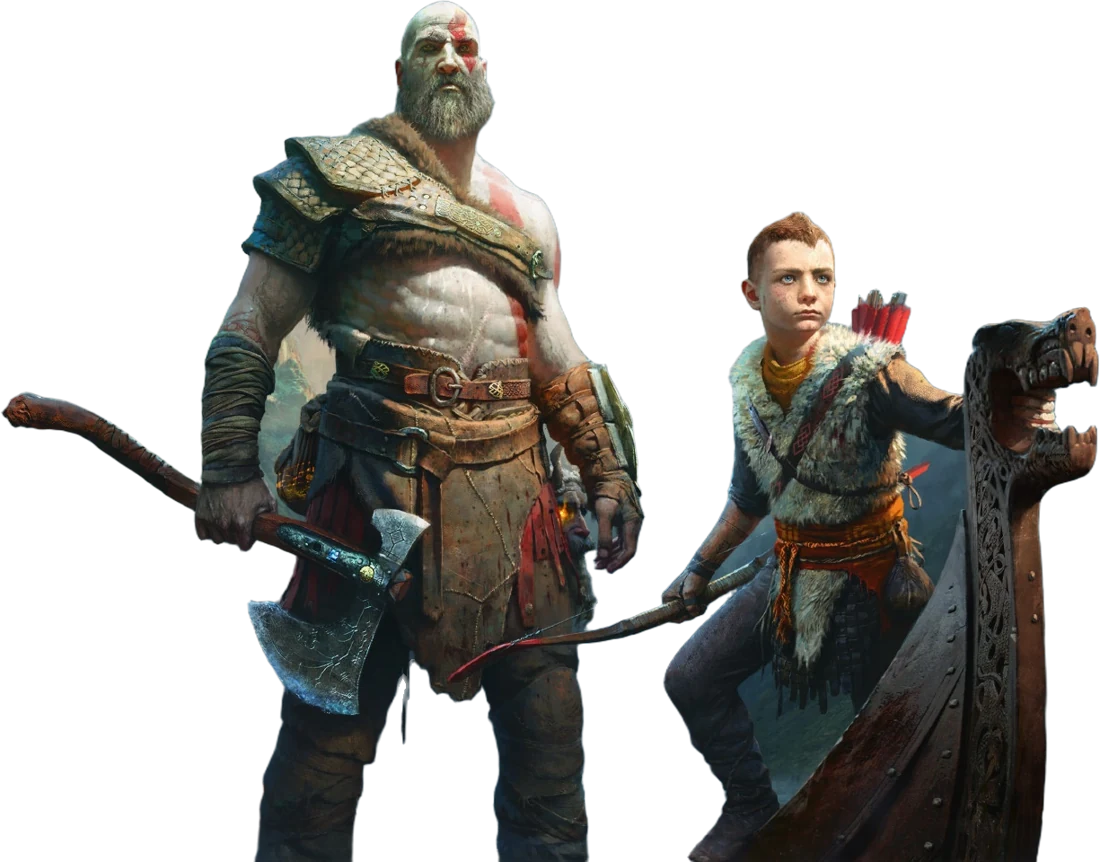
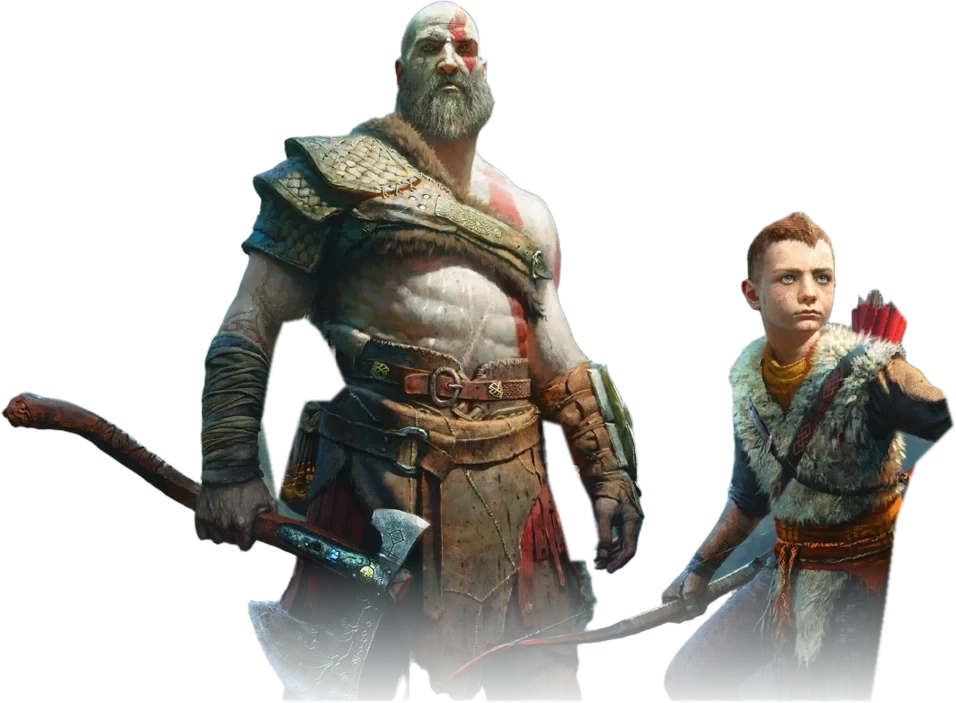
Round 11: clean Wolverine hero bg (ring behind character only), Kratos cutout without boat prow, footer email wrap fix, ?v=13

diff --git a/index.html b/index.html
@@ -458,7 +458,7 @@ legend{width:100%;padding:0;margin-bottom:14px;display:flex;align-items:baseline
   *:not(.hgl-col):not(.hg-lt-st em):not(.hg-stn .pulse),*::before,*::after{animation:none!important;transition:none!important}
 }
 </style>
-<link rel="stylesheet" href="/hg.css?v=12">
+<link rel="stylesheet" href="/hg.css?v=13">
 </head>
 <body>
 
@@ -839,7 +839,7 @@ legend{width:100%;padding:0;margin-bottom:14px;display:flex;align-items:baseline
       <a class="hgf-t wa" href="https://wa.me/917038896627?text=Hi%20Hunter%20Gamers%2C%20I%20want%20to%20book%20a%20slot." target="_blank" rel="noopener"><span class="hgf-ic"><svg viewBox="0 0 24 24" aria-hidden="true"><path fill="#25D366" d="M17.472 14.382c-.297-.149-1.758-.867-2.03-.967-.273-.099-.471-.148-.67.15-.197.297-.767.966-.94 1.164-.173.199-.347.223-.644.075-.297-.15-1.255-.463-2.39-1.475-.883-.788-1.48-1.761-1.653-2.059-.173-.297-.018-.458.13-.606.134-.133.298-.347.446-.52.149-.174.198-.298.298-.497.099-.198.05-.371-.025-.52-.075-.149-.669-1.612-.916-2.207-.242-.579-.487-.5-.669-.51-.173-.008-.371-.01-.57-.01-.198 0-.52.074-.792.372-.272.297-1.04 1.016-1.04 2.479 0 1.462 1.065 2.875 1.213 3.074.149.198 2.096 3.2 5.077 4.487.709.306 1.262.489 1.694.625.712.227 1.36.195 1.871.118.571-.085 1.758-.719 2.006-1.413.248-.694.248-1.289.173-1.413-.074-.124-.272-.198-.57-.347m-5.421 7.403h-.004a9.87 9.87 0 01-5.031-1.378l-.361-.214-3.741.982.998-3.648-.235-.374a9.86 9.86 0 01-1.51-5.26c.001-5.45 4.436-9.884 9.888-9.884 2.64 0 5.122 1.03 6.988 2.898a9.825 9.825 0 012.893 6.994c-.003 5.45-4.437 9.884-9.885 9.884m8.413-18.297A11.815 11.815 0 0012.05 0C5.495 0 .16 5.335.157 11.892c0 2.096.547 4.142 1.588 5.945L.057 24l6.305-1.654a11.882 11.882 0 005.683 1.448h.005c6.554 0 11.89-5.335 11.893-11.893a11.821 11.821 0 00-3.48-8.413Z"/></svg></span><span class="hgf-tx"><small>WhatsApp</small><b>+91 70388 96627</b></span></a>
       <a class="hgf-t ph" href="tel:+917038896627"><span class="hgf-ic"><svg viewBox="0 0 24 24" aria-hidden="true"><path fill="#fff" d="M6.6 10.8a15.1 15.1 0 0 0 6.6 6.6l2.2-2.2a1 1 0 0 1 1-.25c1.1.37 2.3.57 3.6.57a1 1 0 0 1 1 1V20a1 1 0 0 1-1 1A17 17 0 0 1 3 4a1 1 0 0 1 1-1h3.5a1 1 0 0 1 1 1c0 1.25.2 2.45.57 3.57a1 1 0 0 1-.25 1z"/></svg></span><span class="hgf-tx"><small>Call</small><b>+91 70388 96627</b></span></a>
       <a class="hgf-t ig" href="https://www.instagram.com/huntersgamingclub/" target="_blank" rel="noopener"><span class="hgf-ic"><svg viewBox="0 0 24 24" aria-hidden="true"><defs><radialGradient id="igG" cx="30%" cy="107%" r="150%"><stop offset="0" stop-color="#fdf497"/><stop offset=".05" stop-color="#fdf497"/><stop offset=".45" stop-color="#fd5949"/><stop offset=".6" stop-color="#d6249f"/><stop offset=".9" stop-color="#285AEB"/></radialGradient></defs><path fill="url(#igG)" d="M7.0301.084c-1.2768.0602-2.1487.264-2.911.5634-.7888.3075-1.4575.72-2.1228 1.3877-.6652.6677-1.075 1.3368-1.3802 2.127-.2954.7638-.4956 1.6365-.552 2.914-.0564 1.2775-.0689 1.6882-.0626 4.947.0062 3.2586.0206 3.6671.0825 4.9473.061 1.2765.264 2.1482.5635 2.9107.308.7889.72 1.4573 1.388 2.1228.6679.6655 1.3365 1.0743 2.1285 1.38.7632.295 1.6361.4961 2.9134.552 1.2773.056 1.6884.069 4.9462.0627 3.2578-.0062 3.668-.0207 4.9478-.0814 1.28-.0607 2.147-.2652 2.9098-.5633.7889-.3086 1.4578-.72 2.1228-1.3881.665-.6682 1.0745-1.3378 1.3795-2.1284.2957-.7632.4966-1.636.552-2.9124.056-1.2809.0692-1.6898.063-4.948-.0063-3.2583-.021-3.6668-.0817-4.9465-.0607-1.2797-.264-2.1487-.5633-2.9117-.3084-.7889-.72-1.4568-1.3876-2.1228C21.2982 1.33 20.628.9208 19.8378.6165 19.074.321 18.2017.1197 16.9244.0645 15.6471.0093 15.236-.005 11.977.0014 8.718.0076 8.31.0215 7.0301.0839m.1402 21.6932c-1.17-.0509-1.8053-.2453-2.2287-.408-.5606-.216-.96-.4771-1.3819-.895-.422-.4178-.6811-.8186-.9-1.378-.1644-.4234-.3624-1.058-.4171-2.228-.0595-1.2645-.072-1.6442-.079-4.848-.007-3.2037.0053-3.583.0607-4.848.05-1.169.2456-1.805.408-2.2282.216-.5613.4762-.96.895-1.3816.4188-.4217.8184-.6814 1.3783-.9003.423-.1651 1.0575-.3614 2.227-.4171 1.2655-.06 1.6447-.072 4.848-.079 3.2033-.007 3.5835.005 4.8495.0608 1.169.0508 1.8053.2445 2.228.408.5608.216.96.4754 1.3816.895.4217.4194.6816.8176.9005 1.3787.1653.4217.3617 1.056.4169 2.2263.0602 1.2655.0739 1.645.0796 4.848.0058 3.203-.0055 3.5834-.061 4.848-.051 1.17-.245 1.8055-.408 2.2294-.216.5604-.4763.96-.8954 1.3814-.419.4215-.8181.6811-1.3783.9-.4224.1649-1.0577.3617-2.2262.4174-1.2656.0595-1.6448.072-4.8493.079-3.2045.007-3.5825-.006-4.848-.0608M16.953 5.5864A1.44 1.44 0 1 0 18.39 4.144a1.44 1.44 0 0 0-1.437 1.4424M5.8385 12.012c.0067 3.4032 2.7706 6.1557 6.173 6.1493 3.4026-.0065 6.157-2.7701 6.1506-6.1733-.0065-3.4032-2.771-6.1565-6.174-6.1498-3.403.0067-6.156 2.771-6.1496 6.1738M8 12.0077a4 4 0 1 1 4.008 3.9921A3.9996 3.9996 0 0 1 8 12.0077"/></svg></span><span class="hgf-tx"><small>Instagram</small><b>@huntersgamingclub</b></span></a>
-      <a class="hgf-t gm" href="mailto:huntergamers0007@gmail.com"><span class="hgf-ic"><svg viewBox="52 42 88 66" aria-hidden="true"><path fill="#4285f4" d="M58 108h14V74L52 59v43c0 3.32 2.69 6 6 6"/><path fill="#34a853" d="M120 108h14c3.32 0 6-2.69 6-6V59l-20 15"/><path fill="#fbbc04" d="M120 48v26l20-15v-8c0-7.42-8.47-11.65-14.4-7.2"/><path fill="#ea4335" d="M72 74V48l24 18 24-18v26L96 92"/><path fill="#c5221f" d="M52 51v8l20 15V48l-5.6-4.2c-5.94-4.45-14.4-.22-14.4 7.2"/></svg></span><span class="hgf-tx"><small>Gmail</small><b>huntergamers0007@gmail.com</b></span></a>
+      <a class="hgf-t gm" href="mailto:huntergamers0007@gmail.com"><span class="hgf-ic"><svg viewBox="52 42 88 66" aria-hidden="true"><path fill="#4285f4" d="M58 108h14V74L52 59v43c0 3.32 2.69 6 6 6"/><path fill="#34a853" d="M120 108h14c3.32 0 6-2.69 6-6V59l-20 15"/><path fill="#fbbc04" d="M120 48v26l20-15v-8c0-7.42-8.47-11.65-14.4-7.2"/><path fill="#ea4335" d="M72 74V48l24 18 24-18v26L96 92"/><path fill="#c5221f" d="M52 51v8l20 15V48l-5.6-4.2c-5.94-4.45-14.4-.22-14.4 7.2"/></svg></span><span class="hgf-tx"><small>Gmail</small><b class="em">huntergamers0007<wbr>@gmail.com</b></span></a>
       <a class="hgf-t mp wide" href="https://www.google.com/maps/dir/?api=1&amp;destination=Hunter+Gamers+-+The+gaming+club&amp;destination_place_id=ChIJsfQEShTB1DsRCTV9abEC-vM" target="_blank" rel="noopener"><span class="hgf-ic"><svg viewBox="0 0 24 24" aria-hidden="true"><path fill="#EA4335" d="M19.527 4.799c1.212 2.608.937 5.678-.405 8.173-1.101 2.047-2.744 3.74-4.098 5.614-.619.858-1.244 1.75-1.669 2.727-.141.325-.263.658-.383.992-.121.333-.224.673-.34 1.008-.109.314-.236.684-.627.687h-.007c-.466-.001-.579-.53-.695-.887-.284-.874-.581-1.713-1.019-2.525-.51-.944-1.145-1.817-1.79-2.671L19.527 4.799zM8.545 7.705l-3.959 4.707c.724 1.54 1.821 2.863 2.871 4.18.247.31.494.622.737.936l4.984-5.925-.029.01c-1.741.601-3.691-.291-4.392-1.987a3.377 3.377 0 0 1-.209-.716c-.063-.437-.077-.761-.004-1.198l.001-.007zM5.492 3.149l-.003.004c-1.947 2.466-2.281 5.88-1.117 8.77l4.785-5.689-.058-.05-3.607-3.035zM14.661.436l-3.838 4.563a.295.295 0 0 1 .027-.01c1.6-.551 3.403.15 4.22 1.626.176.319.323.683.377 1.045.068.446.085.773.012 1.22l-.003.016 3.836-4.561A8.382 8.382 0 0 0 14.67.439l-.009-.003zM9.466 5.868L14.162.285l-.047-.012A8.31 8.31 0 0 0 11.986 0a8.439 8.439 0 0 0-6.169 2.766l-.016.018 3.665 3.084z"/></svg></span><span class="hgf-tx"><small>Directions</small><b>Shop No 3, Rajat Tower, Indora, Balabhaupeth, Nagpur 440017</b></span></a>
     </div>
     <nav class="hgf-links" aria-label="Footer"><a href="#consoles">Consoles</a><a href="#rent">Rent PS5</a><a href="#snacks">Snacks</a><a href="#visit">Visit</a><a href="#book" data-go-book>Book a slot</a></nav>
@@ -1304,5 +1304,5 @@ legend{width:100%;padding:0;margin-bottom:14px;display:flex;align-items:baseline
 })();
 </script>
 
-<script src="/hg.js?v=12" defer></script>
+<script src="/hg.js?v=13" defer></script>
 </body></html>

diff --git a/hg.js b/hg.js
@@ -86,7 +86,7 @@
 
   /* ---------- Hero: cutout centre-stage over a spinning poster ring, dimmed + blurred background ---------- */
   const MOB = innerWidth <= 760, BIG = innerWidth > 1100 ? '-md' : '-sm', CUT = '-md';
-  const HIBG = ['gow', 'sm2', 'acs', 'fc26', 'nr', 'wk'];
+  const HIBG = ['wolverine', 'gow', 'sm2', 'acs', 'fc26', 'nr', 'wk'];
   const bgSrc = s => HIBG.includes(s.id) ? I((MOB ? 't-' : 'w-') + s.id + '.webp') : I(s.bg + (s.id === 'wolverine' || s.id === 'gta6' ? '-md' : (MOB ? '-sm' : BIG)) + '.webp');
   const cutSrc = s => I('c-' + (s.cut || s.id) + CUT + '.webp');
   function buildHero() {

diff --git a/hg.css b/hg.css
@@ -503,3 +503,4 @@ html.hg-paged body{overflow:hidden}html.hg-paged .hg-nav{z-index:95}
 @media (min-width:760px){.hgf-grid{grid-template-columns:repeat(4,1fr)}}
 .hgl-col img{box-shadow:none!important}
 .hg-cf-card:not(.on) .rf{opacity:0}.hg-cf-card.on .rf{opacity:.22}
+.hgf-tx b.em{overflow-wrap:normal;word-break:normal;font-size:13px}
